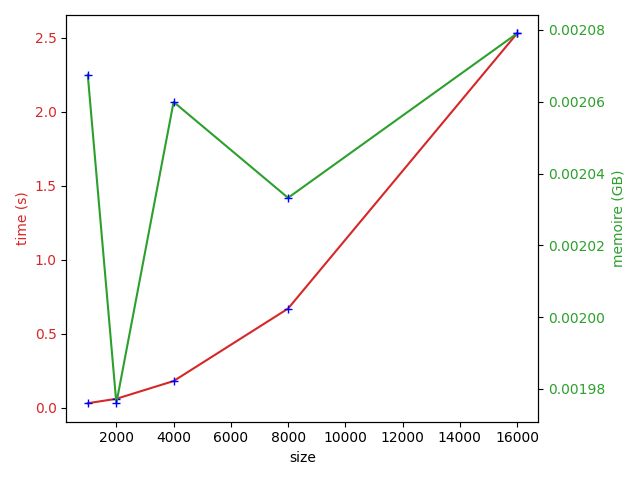
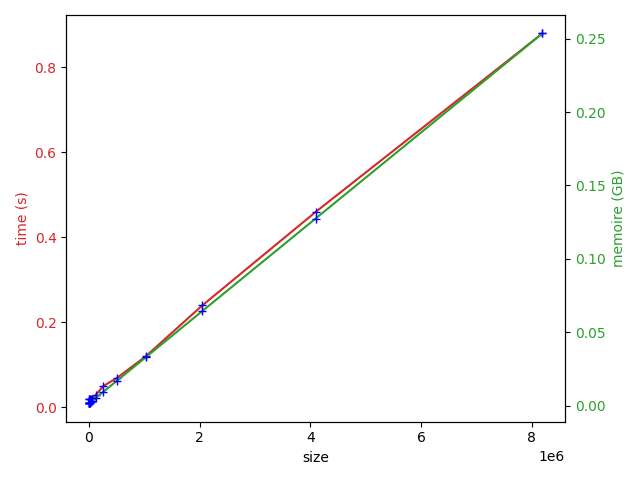
reparation des tests de perf

diff --git a/APP2/interprete.c b/APP2/interprete.c
@@ -29,6 +29,8 @@ void stop(void)
 /* Acte I.2 */
 int interprete(sequence_t *seq, bool debug)
 {
+
+    unsigned long index = 0;
     // Version temporaire a remplacer par une lecture des commandes dans la
     // liste chainee et leur interpretation.
 
@@ -38,7 +40,7 @@ int interprete(sequence_t *seq, bool debug)
     // debug = true; /* À enlever par la suite et utiliser "-d" sur la ligne de commandes */
 
     printf("Programme:");
-    afficher(seq);
+    // afficher(seq);
     printf("\n");
     if (debug)
         stop();
@@ -65,10 +67,16 @@ int interprete(sequence_t *seq, bool debug)
             case 'A':
                 ret = avance();
                 if (ret == VICTOIRE)
-                    return VICTOIRE; /* on a atteint la cible */
+                {
+                    detruire_seq(pile); // on libere la mémoire avant de sortir du programme pour ne pas avoir de fuites
+                    return VICTOIRE;
+                } /* on a atteint la cible */
                 if (ret == RATE)
-                    return RATE; /* tombé dans l'eau ou sur un rocher */
-                break;           /* à ne jamais oublier !!! */
+                {
+                    detruire_seq(pile); // on libere la mémoire avant de sortir du programme pour ne pas avoir de fuites
+                    return RATE;
+                }      /* tombé dans l'eau ou sur un rocher */
+                break; /* à ne jamais oublier !!! */
             case 'G':
                 gauche();
                 break;
@@ -96,15 +104,15 @@ int interprete(sequence_t *seq, bool debug)
             case 'M':
                 /*Mesure : effectue une mesure dans une certaine direction
                 et empile le numéro de la direction associé*/
-                empiler_int(pile,mesure(depiler_int(pile)));
+                empiler_int(pile, mesure(depiler_int(pile)));
                 break;
             case 'P':
                 /*Pose ou enleve une marque au sol*/
                 pose(depiler_int(pile));
                 break;
             case '?':
-                /*Selon l'entier au sommet de la pile, 
-                un groupe de commande délimité par des 
+                /*Selon l'entier au sommet de la pile,
+                un groupe de commande délimité par des
                 accolades sera empiler puis exécuté*/
                 execution_coditionnelle(seq, pile);
                 break;
@@ -114,8 +122,8 @@ int interprete(sequence_t *seq, bool debug)
                 echange(pile);
                 break;
             case '!':
-                /*Extrait l'élement au sommet 
-                de la pile, le met dans la routine 
+                /*Extrait l'élement au sommet
+                de la pile, le met dans la routine
                 est l'exécute*/
                 exec(seq, pile);
                 break;
@@ -132,7 +140,7 @@ int interprete(sequence_t *seq, bool debug)
                 boucle(seq, pile);
                 break;
             case 'R':
-                /*Effectue une rotation de certains éléments 
+                /*Effectue une rotation de certains éléments
                 en haut de la pile vers la gauche*/
                 rotation(pile);
                 break;
@@ -150,6 +158,7 @@ int interprete(sequence_t *seq, bool debug)
         }
 
         /* Affichage pour faciliter le debug */
+        /*
         afficherCarte();
         printf("Programme:");
         afficher(seq);
@@ -157,13 +166,17 @@ int interprete(sequence_t *seq, bool debug)
         printf("Pile : ");
         afficher(pile);
         printf("\n");
+        */
+        index++;
         if (debug)
             stop();
+        detruireCellule(cell_actuelle); // on libere la mémoire avant de sortir du programme pour ne pas avoir de fuites
         cell_actuelle = depiler(seq);
     }
 
+    detruire_seq(pile); // on libere la mémoire avant de sortir du programme pour ne pas avoir de fuites
+
     /* Si on sort de la boucle sans arriver sur la cible,
      * c'est raté :-( */
-
     return CIBLERATEE;
 }

diff --git a/APP2/commandes.c b/APP2/commandes.c
@@ -12,10 +12,10 @@ void addition(sequence_t *pile)
     empiler_int(pile, x + y);
 }
 
-/*Soustraction entre deux elements 
-de la pile (le resulat est empile 
+/*Soustraction entre deux elements
+de la pile (le resulat est empile
 sur la pile)*/
-void soustraction(sequence_t *pile) 
+void soustraction(sequence_t *pile)
 {
     int x = depiler_int(pile);
     int y = depiler_int(pile);
@@ -23,7 +23,7 @@ void soustraction(sequence_t *pile)
 }
 
 /*Multiplication entre deux elements
-de la pile (le resulat est empile sur 
+de la pile (le resulat est empile sur
 la pile)*/
 void multiplication(sequence_t *pile)
 {
@@ -34,10 +34,10 @@ void multiplication(sequence_t *pile)
 
 /*
 Selon l'entier au sommet de la pile,
-un groupe de commande délimité par 
+un groupe de commande délimité par
 des accolades sera empiler puis exécuté
 */
-void   execution_coditionnelle(sequence_t *routine, sequence_t *pile)
+void execution_coditionnelle(sequence_t *routine, sequence_t *pile)
 {
     sequence_t *commande_1 = depiler_seq(pile);
     sequence_t *commande_2 = depiler_seq(pile);
@@ -59,9 +59,7 @@ void   execution_coditionnelle(sequence_t *routine, sequence_t *pile)
 #ifdef ACTE_V
 /* Acte V */
 
-
-
-//Il me semble beaucoup à la fonctionalité retirer_tete
+// Il me semble beaucoup à la fonctionalité retirer_tete
 
 #endif
 
@@ -78,12 +76,12 @@ void echange(sequence_t *pile)
 }
 
 /*
-Extrait l'élement au sommet de la pile, 
+Extrait l'élement au sommet de la pile,
 le met dans la routine est l'exécute
 */
 void exec(sequence_t *routine, sequence_t *pile)
 {
-    /*On a une séquence pour prendre en compte tout les cas possible 
+    /*On a une séquence pour prendre en compte tout les cas possible
     (un caractere ou une chaine de caractere)*/
     sequence_t *seq = depiler_seq(pile);
     inserer_liste_debut(routine, seq);
@@ -132,7 +130,7 @@ void boucle(sequence_t *routine, sequence_t *pile)
     cellule_t *cell_n = depiler(pile);
     /*On dépile la commande à exécuter*/
     sequence_t *cmd = depiler_seq(pile);
-    
+
     if (cell_n->valeur.n > 0)
     {
         /*décrémente n de 1*/
@@ -155,7 +153,7 @@ void boucle(sequence_t *routine, sequence_t *pile)
 }
 
 /*
-Effectue une rotation de certains 
+Effectue une rotation de certains
 éléments en haut de la pile vers la gauche
 */
 void rotation(sequence_t *pile)
@@ -163,7 +161,8 @@ void rotation(sequence_t *pile)
     int x = depiler_int(pile);
     int n = depiler_int(pile);
     /*Un décalage de 1 element vers la gauche ne change pas la séquence*/
-    if (n == 1){
+    if (n == 1)
+    {
         return;
     }
     cellule_t *cell;
@@ -175,12 +174,10 @@ void rotation(sequence_t *pile)
         cell = depiler(pile);
         ajout_debut(seq, cell);
     }
-    afficher(seq);
-    printf("\n");
     cell = seq->tete;
     for (int i = 0; i < n; i++)
     {
-        
+
         if (i >= x)
         {
             cell2 = nouvelleCellule();
@@ -188,11 +185,11 @@ void rotation(sequence_t *pile)
             cell2->type_valeur = cell->type_valeur;
             empiler(pile, cell2);
         }
-        cell = cell->suivant; 
+        cell = cell->suivant;
     }
 
     cell = seq->tete;
-    for (int i = 0; i <x; i++)
+    for (int i = 0; i < x; i++)
     {
         cell2 = nouvelleCellule();
         cell2->valeur = cell->valeur;
@@ -202,7 +199,7 @@ void rotation(sequence_t *pile)
     }
 }
 
-void operation_Z(sequence_t * pile)
+void operation_Z(sequence_t *pile)
 {
     retourner_sequence(pile);
 }

diff --git a/APP2/listes.c b/APP2/listes.c
@@ -36,35 +36,19 @@ void detruireCellule(cellule_t *cel)
     free(cel);
 }
 
+/*Detruit une sequence*/
+void detruire_seq(sequence_t *seq)
+{
+    free(seq);
+}
+
 /* Acte I.1 */
 
 /*Converti une chaine de caractere en sequence
 (liste chainee) de caracteres*/
 void conversion(char *texte, sequence_t *seq)
 {
-    // int nb_accolades = 0;
-    // printf("%s\n", texte);
-    // time_t start = time(NULL);
-    /*for (int i = 0; i<PROGSIZE; i++)
-    {
-        if (texte[i] == '{')
-        {
-            nb_accolades++;
-        }
-        else if (texte[i] == '}')
-        {
-            nb_accolades--;
-        }
-        else if (texte[i] == '\0' && nb_accolades > 0)
-        {
-            texte[i] = '}';
-            nb_accolades--;
-        }
-    }
-    */
-    // time_t end = time(NULL);
-    // printf("temps : %ld\n", end-start);
-    // printf("%s\n", texte);
+    unsigned long compteur_passages = 0;
 
     cellule_t *cell;
     char c;
@@ -76,6 +60,8 @@ void conversion(char *texte, sequence_t *seq)
     int lg_texte = strlen(texte);
     for (int i = lg_texte; i >= 0; i--)
     {
+        compteur_passages++;
+
         c = texte[i];
         if (isspace(c))
         {
@@ -133,6 +119,7 @@ void conversion(char *texte, sequence_t *seq)
             ajout_debut(seq, cell);
         }
     }
+    //printf("\n%lu\n\n", compteur_passages);
 }
 /* ----------- */
 
@@ -226,25 +213,34 @@ cellule_t *depiler(sequence_t *seq)
 de la pile tout en retournant sa valeur*/
 int depiler_int(sequence_t *pile)
 {
-    return depiler(pile)->valeur.n;
+    cellule_t *cell = depiler(pile);
+    int retour = cell->valeur.n;
+    //detruireCellule(cell); //FIXME: fuite de memoire, on devrait pouvoir detruire la cellule ici mais ca casse tout...
+    return retour;
 }
 
 /*Supprime le premier element (charactere)
 de la pile tout en retournant sa valeur*/
 char depiler_char(sequence_t *pile)
 {
-    return depiler(pile)->valeur.l;
+    cellule_t *cell = depiler(pile);
+    char retour = cell->valeur.l;
+    // detruireCellule(cell); //FIXME: fuite de memoire, on devrait pouvoir detruire la cellule ici mais ca casse tout...
+    return retour;
 }
 
 /*Supprime le premier element (sequence)
 de la pile tout en retournant sa valeur*/
 sequence_t *depiler_seq(sequence_t *pile)
 {
-    return depiler(pile)->valeur.s;
+    cellule_t *cell = depiler(pile);
+    sequence_t *retour = cell->valeur.s;
+    // detruireCellule(cell); //FIXME: fuite de memoire, on devrait pouvoir detruire la cellule ici mais ca casse tout...
+    return retour;
 }
 
 /*Vide la séquence*/
-void vider(sequence_t *seq)
+void vider(sequence_t *seq) // FIXME: ne libere pas la memoire!
 {
     seq->tete = NULL;
 }
@@ -264,6 +260,7 @@ void inserer_liste_debut(sequence_t *seq, sequence_t *seq_a_inserer)
         dernier_elem->suivant = seq->tete; // le suivant de la queue de la sequence à inserer est la tete de la sequence initiale
         seq->tete = seq_a_inserer->tete;   // initialisation de la nouvelle tete
     }
+    detruire_seq(seq_a_inserer);    
 }
 
 /*Retourne la queue de la séquence*/

diff --git a/APP2/listes.h b/APP2/listes.h
@@ -59,7 +59,10 @@ cellule_t *nouvelleCellule(void);
 /*Detruit une cellule*/
 void detruireCellule(cellule_t *);
 
-/*Converti une chaine de caractere en sequence 
+/*Detruit une sequence*/
+void detruire_seq(sequence_t *seq);
+
+/*Converti une chaine de caractere en sequence
 (liste chainee) de caracteres*/
 void conversion(char *texte, sequence_t *seq);
 

diff --git a/APP2/tests/performance/perf.py b/APP2/tests/performance/perf.py
@@ -100,7 +100,7 @@ time = time.decode().rstrip()
 # timecmd = " time -f '\tTemps: %es  Mémoire max: %MKb' "
 timecmd = time + " -f '%e;%M' "
 # timeout = 60
-timeout = 10
+timeout = 60
 timeoutcmd = "timeout " + str(timeout) + "s "
 
 def drawgraph(x, temps, memoire=None, mode=None):
